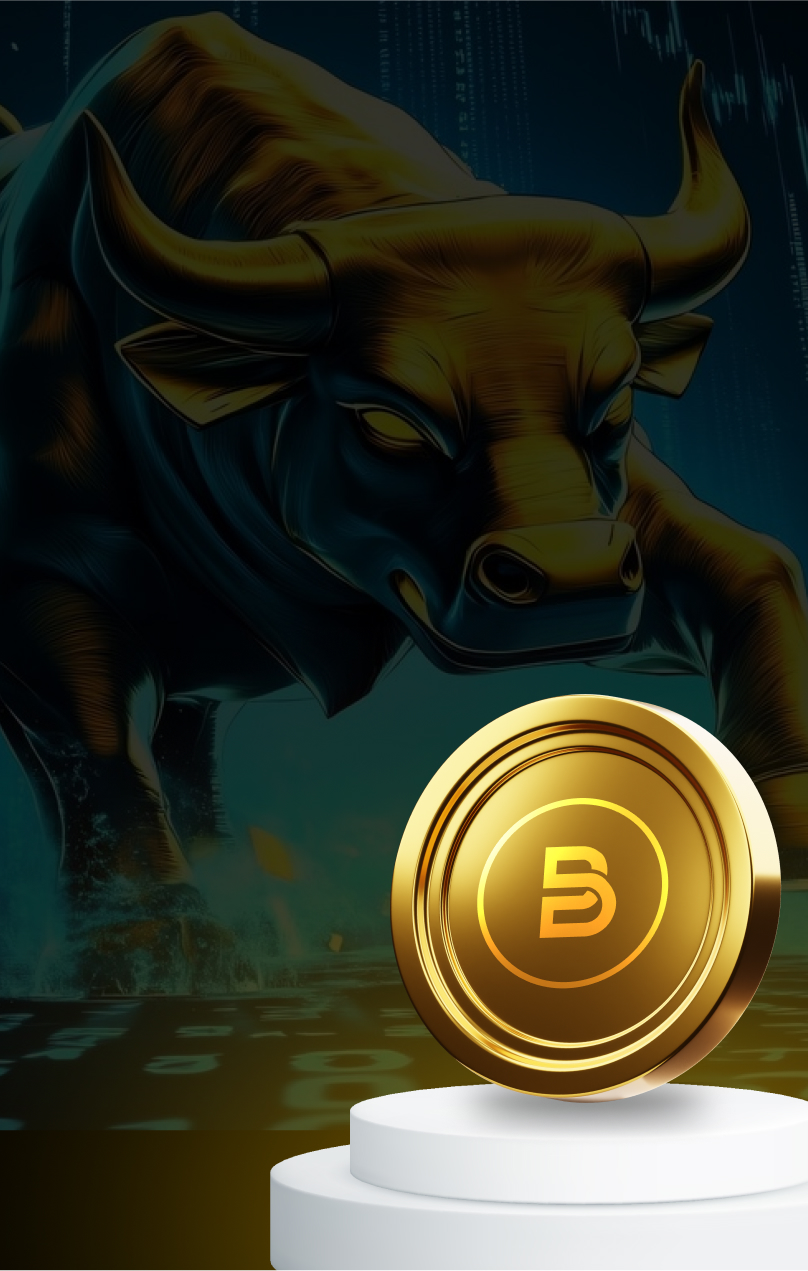
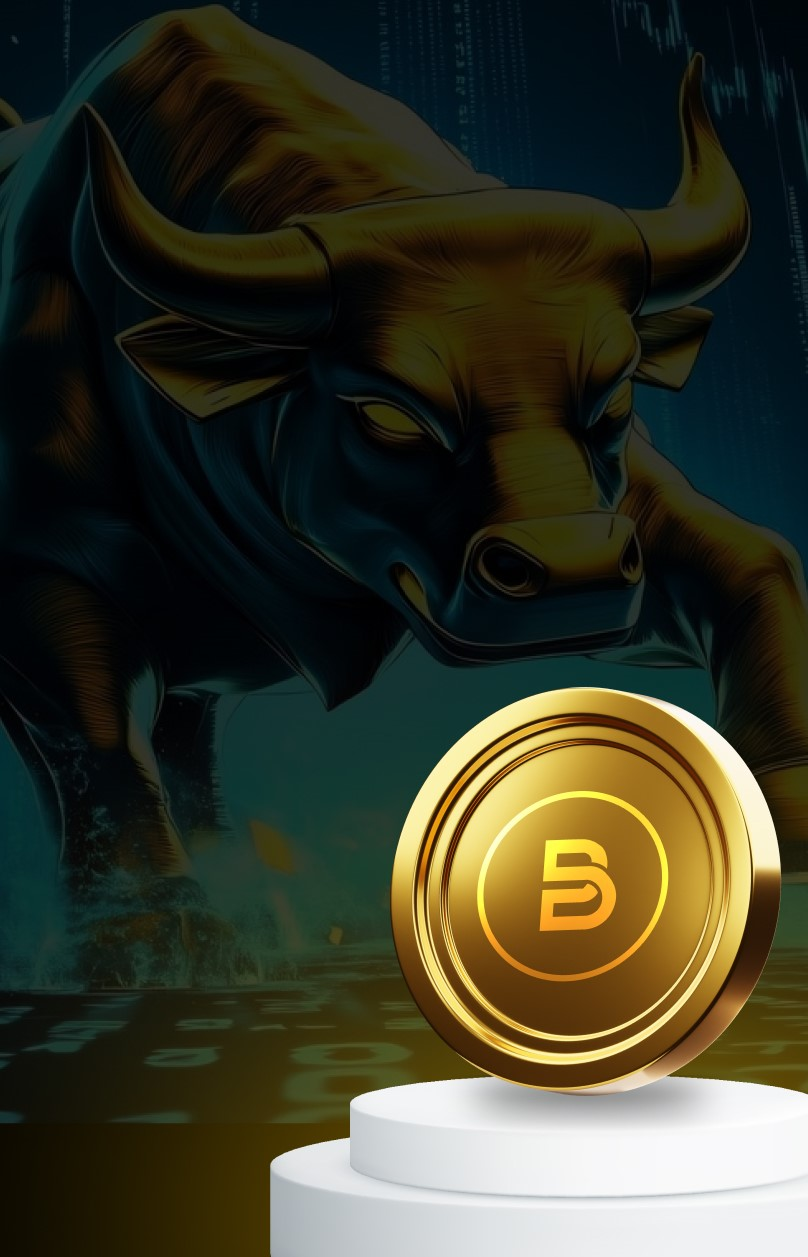
referral program page

diff --git a/src/RefferalProgram/topbfxReferral.jsx b/src/RefferalProgram/topbfxReferral.jsx
@@ -67,7 +67,7 @@ const tableData = [
 
 function TopBFXReferral() {
   return (
-    <div className=" pt-[0px] sm:pt-[55px] pb-[20px] bg-[#020B10] h-full">
+    <div className=" pt-[15px] sm:pt-[55px] pb-[20px] bg-[#020B10] h-full">
       <div className="max-w-[1200px] relative w-[100%] mx-auto">
         <div className="flex flex-col sm:flex-row justify-center items-stretch space-x-[0%] sm:space-x-[4%]">
           <div className="w-[100%] px-[4%] sm:px-[0%] sm:w-[50%] grow">
@@ -79,7 +79,7 @@ function TopBFXReferral() {
             <img
               src={ReferralMobileImage}
               alt="Referral Mobile"
-              className="h-full object-cover block sm:hidden"
+              className="w-full h-auto object-contain block sm:hidden"
             />
           </div>
           <div className="w-[100%] sm:w-[50%] px-[4%] 2xl:px-[4%] lg:px-[3%] md:px-[0%] h-full min-h-full">
